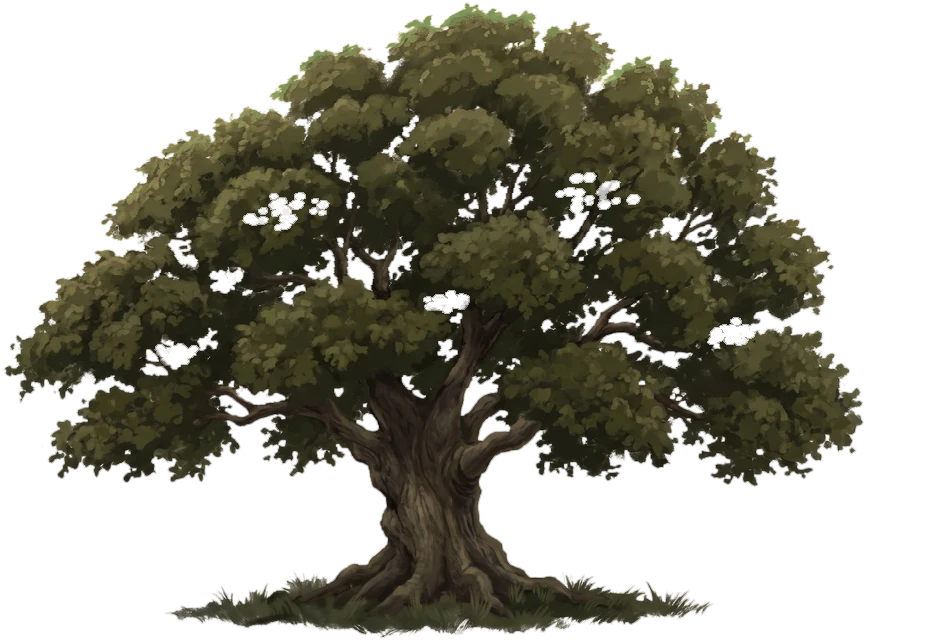
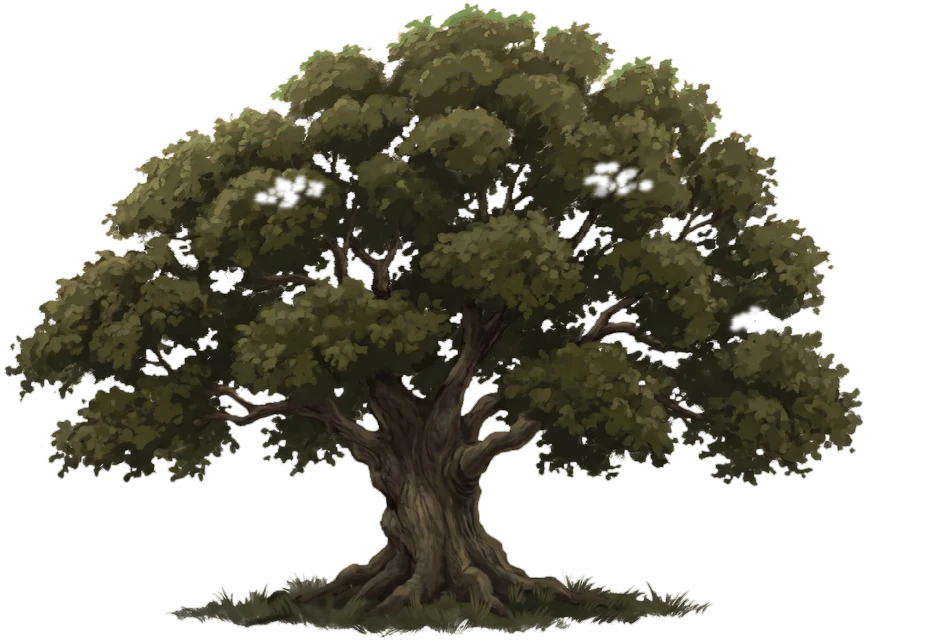
Build 269: the opening, a third pass after a second round of critique
Claude-Session: https://claude.ai/code/session_017HrTSHS2zYJPTp1hrn9Z3X

diff --git a/hill.js b/hill.js
@@ -288,12 +288,11 @@ const HL = (() => {
         k.beginPath(); if (o.hip) { k.moveTo(x - 2, top + 1); k.lineTo(x + w * .3, top - pitch); k.lineTo(x + w * .7, top - pitch); k.lineTo(x + w + 2, top + 1); } else { k.moveTo(x - 2, top + 1); k.lineTo(x + w / 2, top - pitch); k.lineTo(x + w + 2, top + 1); } k.fill();
         for (const cp of o.chim || []) { const px = x + w * cp, ry = top - pitch * (1 - Math.abs(cp - .5) * 2 * (o.hip ? .4 : 1)), hh = 8 + Rv() * 4; k.fillRect(px - 2.5, ry - hh, 5, hh + 3); k.fillRect(px - 3.5, ry - hh - 2, 7, 2.5); if (o.smoke) ch.push([px, ry - hh - 2]); }
         if (o.win) lit.push([x + w * o.win[0], top + h * o.win[1]]); };
-      const tree = (x, r, h) => { const g0 = gy(x) + 1; k.fillRect(x - 2, g0 - h, 4, h); for (let i = 0; i < 11; i++) { const a2 = i * 2.4, rr = r * (.5 + .22 * Rv()); k.beginPath(); k.arc(x + Math.cos(a2) * r * .6, g0 - h - r * .55 + Math.sin(a2) * r * .5, rr, 0, 7); k.fill(); } };
+      const tree = (x, r, h) => { const g0 = gy(x) + 1; k.fillRect(x - 2, g0 - h, 4, H); for (let i = 0; i < 11; i++) { const a2 = i * 2.4, rr = r * (.5 + .22 * Rv()); k.beginPath(); k.arc(x + Math.cos(a2) * r * .6, g0 - h - r * .55 + Math.sin(a2) * r * .5, rr, 0, 7); k.fill(); } };
       // first, nearest him: Legality's fine house, hipped, two tall chimneys, a garden wall and a great tree
       tree(18, 22, 26); house(48, 110, 44, 26, { hip: true, chim: [.2, .8], smoke: true, win: [.3, .45] }); house(158, 46, 30, 20, { chim: [.7] });
-      { const g0 = base(0, 214); k.fillRect(0, g0 - 9, 214, 20); }
       // the cottages, each its own width, height and pitch, a few with smoke; a long barn among them
-      let x = 222; const plan = [[40, 20, 15], [30, 16, 12, 'tree'], [78, 22, 16, 'barn'], [36, 19, 17], [44, 18, 11]];
+      let x = 222; const plan = [[52, 24, 19], [26, 13, 9, 'tree'], [84, 19, 13, 'barn'], [34, 27, 22], [60, 15, 9]];
       for (const [w, h, p, kind] of plan) { if (kind === 'tree') { tree(x + 12, 15, 17); x += 24; } house(x, w, h, p, { chim: kind === 'barn' ? [] : [.22 + Rv() * .56], smoke: x < 300 || kind === undefined && Rv() < .4, hip: kind === 'barn' }); x += w + 5 + Rv() * 7; }
       // the church: nave and a square tower with a short spire, set back a little
       const c0 = x + 8, cg = base(c0, 116); k.fillRect(c0, cg - 30, 84, H); k.beginPath(); k.moveTo(c0 - 2, cg - 29); k.lineTo(c0 + 42, cg - 47); k.lineTo(c0 + 86, cg - 29); k.fill();
@@ -301,7 +300,7 @@ const HL = (() => {
       k.beginPath(); k.moveTo(c0 + 86, cg - 66); k.lineTo(c0 + 97, cg - 122); k.lineTo(c0 + 108, cg - 66); k.fill(); k.fillRect(c0 + 96.2, cg - 131, 1.6, 10); k.fillRect(c0 + 93, cg - 127, 8, 1.4);
       lit.push([c0 + 30, cg - 15]);
       x = c0 + 124; tree(x + 12, 19, 20); x += 34;
-      for (const [w, h, p] of [[42, 18, 14], [58, 21, 18], [32, 15, 12]]) { house(x, w, h, p, { chim: [.3 + Rv() * .4], smoke: w === 58, win: w === 42 ? [.6, .5] : null }); x += w + 6 + Rv() * 6; }
+      for (const [w, h, p] of [[46, 22, 20], [70, 16, 11], [28, 12, 14]]) { house(x, w, h, p, { chim: [.3 + Rv() * .4], smoke: w === 70, win: w === 46 ? [.6, .5] : null }); x += w + 6 + Rv() * 6; }
       tree(x + 14, 17, 18);
       // only a few windows lit, not in a row
       lit.push([270, base(250, 40) - 9], [345, base(330, 40) - 10]);
@@ -1065,11 +1064,11 @@ const HL = (() => {
           lg.addColorStop(0, css(c0)); lg.addColorStop(1, css(c1)); c.fillStyle = lg; c.beginPath(); c.moveTo(pts[0][0], Y(0) + 2); for (const [x, y] of pts) c.lineTo(x, y); c.lineTo(pts[pts.length - 1][0], Y(0) + 2); c.fill();
           // the low sun on the crest: a thin warm line, brighter toward the sun and where the swell rises
           if (fairP > .02) { c.save(); c.globalCompositeOperation = 'lighter'; c.lineWidth = Math.max(.6, (1.3 - .5 * t) * z); c.lineJoin = 'round';
-            const sg = c.createLinearGradient(0, 0, VW, 0); for (let i = 0; i <= 8; i++) { const sx = VW * i / 8, d2 = Math.abs(sx - lx) / VW; sg.addColorStop(i / 8, css([255, 220, 160], (.34 - .3 * t) * fairP * Math.max(0, 1 - 1.4 * d2))); }
-            c.strokeStyle = sg; for (let i = 1; i < pts.length; i++) { const uu = cx * par + (pts[i][0] - VW / 2) / z, on = smooth(.46, .62, nz2(uu * .0024, sd + 4)); if (on < .05) continue; c.globalAlpha = on; c.beginPath(); c.moveTo(pts[i - 1][0], pts[i - 1][1] + .6); c.lineTo(pts[i][0], pts[i][1] + .6); c.stroke(); } c.restore(); } }
+            const sg = c.createLinearGradient(0, 0, VW, 0); for (let i = 0; i <= 64; i++) { const sx = VW * i / 64, d2 = Math.abs(sx - lx) / VW, on = smooth(.46, .62, nz2((cx * par + (sx - VW / 2) / z) * .0024, sd + 4)); sg.addColorStop(i / 64, css([255, 220, 160], (.34 - .3 * t) * fairP * Math.max(0, 1 - 1.4 * d2) * on)); }
+            c.strokeStyle = sg; c.beginPath(); pts.forEach(([x, y], i) => i ? c.lineTo(x, y + .6) : c.moveTo(x, y + .6)); c.stroke(); c.restore(); } }
         c.restore(); };
       plainFill(hor);
-      { const fk = (1 - dark) * (1 - gateish); if (fk > .02) { const hg = c.createLinearGradient(0, hor - 34 * z, 0, hor + 26 * z); hg.addColorStop(0, css(low, 0)); hg.addColorStop(.55, css(low, .62 * fk)); hg.addColorStop(1, css(low, 0)); c.fillStyle = hg; c.fillRect(0, hor - 34 * z, VW, 60 * z); } }
+      { const fk = (1 - dark) * (1 - gateish); if (fk > .02) { const hg = c.createLinearGradient(0, hor - 64 * z, 0, hor + 30 * z); hg.addColorStop(0, css(low, 0)); hg.addColorStop(.4, css(low, .2 * fk)); hg.addColorStop(.68, css(low, .52 * fk)); hg.addColorStop(1, css(low, 0)); c.fillStyle = hg; c.fillRect(0, hor - 64 * z, VW, 94 * z); } }
       // THE HILL IS NOT SEEN UNTIL WISEMAN POINTS (owner, build 185: "let's hide it entirely till worldly wise tells him to
       // look and then screen pans right and we see it"). On the plain it stands far off to the right (HILL_F), out of the
       // picture until the camera pans to it at "Do you see that hill?", and comes out of the haze as it does (`reveal`).
@@ -1249,15 +1248,15 @@ const HL = (() => {
       }
       // the village of Morality at the hill's near foot, under the overhang, in front of the haze at its foot. It shows
       // when Wiseman names it (`vil`), before the hill comes out of the haze above it at "Do you see that hill?"
-      if (!rocky && TOWN.W) { const tw = 700 * k, th = tw * TOWN.H / TOWN.W, tx = hx - 220 * k, ty = hy + 8 * k, va = Math.max(reveal, vil);
-        if (va > .01 && tx < VW && tx + tw > 0) { const tc = tintC.town || (tintC.town = mk(TOWN.W, TOWN.H)), t = tc.getContext('2d'), tint = mix(mix(mix(far, [58, 52, 58], .72), low, .06), [40, 36, 44], dark * .7);
+      if (!rocky && TOWN.W) { const tw = 700 * k, th = tw * TOWN.H / TOWN.W, tx = hx - 220 * k, ty = hy + 20 * k, va = Math.max(reveal, vil);
+        if (va > .01 && tx < VW && tx + tw > 0) { const tc = tintC.town || (tintC.town = mk(TOWN.W, TOWN.H)), t = tc.getContext('2d'), tint = mix(mix(mix(far, [44, 38, 44], .8), low, .05), [36, 32, 40], dark * .7);
           t.globalCompositeOperation = 'source-over'; t.clearRect(0, 0, TOWN.W, TOWN.H); t.drawImage(TOWN, 0, 0); t.globalCompositeOperation = 'source-in';
           const tg = t.createLinearGradient(0, 0, 0, TOWN.H); tg.addColorStop(0, css(tint)); tg.addColorStop(1, css(mix(tint, mix(far, near, .3), .35))); t.fillStyle = tg; t.fillRect(0, 0, TOWN.W, TOWN.H);
           // its foot fades into the haze of the plain (no hard straight base)
-          t.globalCompositeOperation = 'source-atop'; const fh = t.createLinearGradient(0, TOWN.H - 30, 0, TOWN.H); fh.addColorStop(0, css(colAt(clamp((ty - hor) / (Y(0) - hor))), 0)); fh.addColorStop(1, css(colAt(clamp((ty - hor) / (Y(0) - hor))), .9)); t.fillStyle = fh; t.fillRect(0, TOWN.H - 30, TOWN.W, 30);
+          t.globalCompositeOperation = 'source-atop'; const fh = t.createLinearGradient(0, TOWN.H - 44, 0, TOWN.H); fh.addColorStop(0, css(colAt(clamp((ty - hor) / (Y(0) - hor))), 0)); fh.addColorStop(1, css(colAt(clamp((ty - hor) / (Y(0) - hor))), .9)); t.fillStyle = fh; t.fillRect(0, TOWN.H - 44, TOWN.W, 44);
           c.globalAlpha = va; c.drawImage(tc, tx, ty - th, tw, th); c.globalAlpha = 1;
           // its chimneys smoke, thin threads leaning with the evening air
-          c.save(); c.lineCap = 'round'; for (const [i, [wx, wy]] of TOWN.ch.entries()) { const px = tx + wx * tw / TOWN.W, py = ty - th + wy * th / TOWN.H, L = 60 * k;
+          c.save(); c.lineCap = 'round'; for (const [i, [wx, wy]] of TOWN.ch.entries()) { const px = tx + wx * tw / TOWN.W, py = ty - th + wy * th / TOWN.H, L = 38 * k;
             for (let j = 0; j < 12; j++) { const u0 = j / 12, u1 = (j + 1) / 12, sw = u => px - u * u * 5 * k + 1.5 * k * u * Math.sin(G.t / 80 + u * 4 + i);
               c.strokeStyle = css(mix(tint, [214, 204, 196], .5), .32 * va * (1 - u0) * (1 - dark * .5)); c.lineWidth = Math.max(.5, (1.4 + 4 * u0) * k); c.beginPath(); c.moveTo(sw(u0), py - u0 * L); c.lineTo(sw(u1), py - u1 * L); c.stroke(); } }
           c.restore();

diff --git a/index.html b/index.html
@@ -156,7 +156,7 @@ body.portrait #rot{display:block}
     <button class="btn" id="again">Walk again</button>
   </div>
   <button id="snd" aria-label="Sound on or off">♪</button>
-  <div id="build">build 268 · Nov 17 2026</div>
+  <div id="build">build 269 · Nov 17 2026</div>
 </div></div>
 <div id="rot">Turn your phone sideways for a bigger picture</div>
 <script>
@@ -2548,7 +2548,7 @@ document.getElementById('on2').onclick = () => SL.on ? go3() : HL.on ? goRoom('d
 })();
 </script>
 <script src="slough.js?v=259"></script>
-<script src="hill.js?v=267"></script>
+<script src="hill.js?v=269"></script>
 <script src="rooms.js?v=268"></script>
 <script src="keepsakes.js?v=261"></script>
 <script src="editor.js?v=261"></script>

diff --git a/story-lab.html b/story-lab.html
@@ -3,4 +3,4 @@
 <title>Pilgrim's Progress</title>
 <!-- The game moved to the main page in build 119. This page only sends old links (and Home Screen icons) on to it. -->
 <script>location.replace('./' + location.search + location.hash);</script>
-<p><a href="./">Pilgrim's Progress</a> <span id="build">build 268 · Nov 17 2026</span></p>
+<p><a href="./">Pilgrim's Progress</a> <span id="build">build 269 · Nov 17 2026</span></p>

diff --git a/CLAUDE.md b/CLAUDE.md
@@ -35,7 +35,7 @@ A gentle side-scrolling story walk for kids ages 7 to 10, following Bunyan's *Th
 ## Working with the owner
 
 - **Repo `Twhidbey/pilgrims-progress`, branch `main`. Pushing `main` publishes the game** (GitHub Pages, https://twhidbey.github.io/pilgrims-progress/, 1 to 2 minutes). Commit and push after every change, then tell the owner it is live; a phone may show an old copy, so suggest `?v=N`. **Always give two links when a build is live (owner, build 187: "can you output [the editor link] by default and make note in notes"):** the game, `https://twhidbey.github.io/pilgrims-progress/?v=N`, and the editor link, `https://twhidbey.github.io/pilgrims-progress/?edit&v=N` (skip arrows, see Testing); add `&level=2` or `&level=3` when the change is in that level.
-- **Build stamp** (`id="build"`, bottom right): `build N · date` in `index.html` and `story-lab.html`. Bump N on **every** push that changes the game, so one number means one push. Keep the form `id="build">... build N` (the page's self-update reads it). **Currently build 268.** The two script tags at the end of `index.html` carry `?v=N` (`slough.js?v=`, `hill.js?v=`): set them to the build that last changed each file, so phones fetch the new copy. Several chats push at once: `git fetch` and rebase on `origin/main` just before pushing, and take the next number after whatever is there.
+- **Build stamp** (`id="build"`, bottom right): `build N · date` in `index.html` and `story-lab.html`. Bump N on **every** push that changes the game, so one number means one push. Keep the form `id="build">... build N` (the page's self-update reads it). **Currently build 269.** The two script tags at the end of `index.html` carry `?v=N` (`slough.js?v=`, `hill.js?v=`): set them to the build that last changed each file, so phones fetch the new copy. Several chats push at once: `git fetch` and rebase on `origin/main` just before pushing, and take the next number after whatever is there.
 - **SPEND AS LITTLE AS POSSIBLE (owner, build 106: "can you minimize spending - it's been pretty expensive for me last few days").** Video about 56 cents a try; a picture about 15 cents (`gemini-3-pro-image`); voice about a cent a line. **Before any paid call: say the cost and wait for a yes; keep the running total in `HANDOFF.md`.** Ways to save, in order: (1) do it in code first (breathing, sway, cloth and hair movement, small moves by warping a still, mirroring, tinting, reusing a figure); (2) build first and last frames from frames we already have; (3) draft pictures on `gemini-2.5-flash-image` (about a third of the price), the pro model only for the final; (4) show the owner a still before any video; (5) get two clips from one video (play backwards or back and forth); (6) write video prompts that pass the safety filter first time (no "sunk", "drowning", "thrashing", "desperate", "frightened"; say "thick sticky mud", "heaves", "cross and grumbling"); (7) a shorter video if the API offers one cheaper (not yet checked).
 - **Keep `CLAUDE.md` and `HANDOFF.md` updated after every change.** The repo is public: no names, emails or other personal details in notes, code or commits.
 - **Players:** kids 7 to 10, mostly on an iPhone. Gentle: no lives, no game over, read-aloud words, short simple sentences.
@@ -242,7 +242,7 @@ Owner: "is there a way to get pause and get menu that allows us to navigate away
 
 **Build 209: the far smoke takes the distance's haze (owner, with a phone picture of the far view: "Smoke is darker than mountain - can we make it same or lighter since the distance is lightening it. Also there can be more almost like layer of clouds about").** Far off (the plain, not among the rocks) the rising billows and the smoke layers are drawn in a pale smoke-grey (`PUFF[].h`, `SMOKEL[].h`), crossing to the dark smoke as the sky darkens (`hz`); and there are eight layers far off instead of five, the three lowest below the summit, passing behind the mountain and lying across the sky on its left. Nothing spent.
 
-**Build 267: THE OPENING MADE BEAUTIFUL, A WHOLE OAK, THE VILLAGE UNDER THE HILL (owner: "opening is a little plain - what could we do to make this beautiful while maintaining simplicity . Tree needs a redo - cut out part doesn't look good. Town needs to look more polished and maybe closer to mt via story"; then "Sound great - can you make multiple passes with subagents providing critique ... like a painting that you want to stare at for an hour").** Two rounds of three critic agents (composition, simplicity and story, close-up craft) between passes. (1) **The oak painted again, whole** (one `gemini-3-pro-image` picture, 4:3 at 2K, about 15 cents, right first time; given the old oak as its style): a broad balanced parkland oak, nothing cut away; cut from its white, the rust-orange top leaves turned olive, a few small ragged sky holes opened in the crown (leaf-sized dabs, the boughs kept), the crown leaned a little toward where Wiseman waits, the edge eroded a pixel (no pale fringe): `assets/oak-leaf.webp` (936 x 640), `OAK_META` {ax 432, ground 606, k .76}. Fewer, smaller, dimmer twinkles (at most 70); the bright edge softer (.42). (2) **The sun through the crown** is a warm core with a soft glow; the turning star-flare spokes are gone (they read as a camera lens). (3) **The plain in layers** (`plainFill(y0)`, `SW`, `colAt`): three long low swells of field bunched toward the horizon, each a shade darker than the one behind, haze lying in the hollow behind each, the low sun on their crests in broken stretches strongest toward the sun; sampled on the land so they slide without wobbling; laid again below the far mountain's foot. (4) **The road** has a long flat warm sheen of the low sun under it (a worn track of two lines was tried and read as lane markings: taken out). (5) **Birds:** three, now and then crossing the opening's sky slowly (only on the plain before the meeting). (6) **THE VILLAGE OF MORALITY AT THE HILL'S NEAR FOOT, under the overhang** ("Go by that hill. The first house you come to is his"): baked at twice its shown size (`TOWN`, 900 x 170) on a gentle rise: Legality's hipped house first with two smoking chimneys, a garden wall and a great tree, cottages of every size, a barn, the church with tower and spire, round trees; a few soft lit windows; thin smoke threads rising straight; its foot fading into the plain's haze; drawn in front of the hill's foot mist. (7) **The story:** when Wiseman names the village the camera pans to it far off (`vil`; the road sinks, `cam.wl`, so it fills less of the picture); the hill is still hidden; at "Do you see that hill?" the hill comes slowly up out of the haze behind the village (`reveal` eases in about 2.5 s instead of at once; the camera is still, so no flicker). (8) **The hill's foot:** one level band of mist (the four drifting cloud pictures there read as blotches: removed). `HL.peek()` gives `vil` and `reveal`. Spent: about 15 cents.
+**Build 267: THE OPENING MADE BEAUTIFUL, A WHOLE OAK, THE VILLAGE UNDER THE HILL (owner: "opening is a little plain - what could we do to make this beautiful while maintaining simplicity . Tree needs a redo - cut out part doesn't look good. Town needs to look more polished and maybe closer to mt via story"; then "Sound great - can you make multiple passes with subagents providing critique ... like a painting that you want to stare at for an hour").** Two rounds of three critic agents (composition, simplicity and story, close-up craft) between passes. (1) **The oak painted again, whole** (one `gemini-3-pro-image` picture, 4:3 at 2K, about 15 cents, right first time; given the old oak as its style): a broad balanced parkland oak, nothing cut away; cut from its white, the rust-orange top leaves turned olive, a few small ragged sky holes opened in the crown (leaf-sized dabs, the boughs kept), the crown leaned a little toward where Wiseman waits, the edge eroded a pixel (no pale fringe): `assets/oak-leaf.webp` (936 x 640), `OAK_META` {ax 432, ground 606, k .76}. Fewer, smaller, dimmer twinkles (at most 70); the bright edge softer (.42). (2) **The sun through the crown** is a warm core with a soft glow; the turning star-flare spokes are gone (they read as a camera lens). (3) **The plain in layers** (`plainFill(y0)`, `SW`, `colAt`): three long low swells of field bunched toward the horizon, each a shade darker than the one behind, haze lying in the hollow behind each, the low sun on their crests in broken stretches strongest toward the sun; sampled on the land so they slide without wobbling; laid again below the far mountain's foot. (4) **The road** has a long flat warm sheen of the low sun under it (a worn track of two lines was tried and read as lane markings: taken out). (5) **Birds:** three, now and then crossing the opening's sky slowly (only on the plain before the meeting). (6) **THE VILLAGE OF MORALITY AT THE HILL'S NEAR FOOT, under the overhang** ("Go by that hill. The first house you come to is his"): baked at twice its shown size (`TOWN`, 900 x 170) on a gentle rise: Legality's hipped house first with two smoking chimneys, a garden wall and a great tree, cottages of every size, a barn, the church with tower and spire, round trees; a few soft lit windows; thin smoke threads rising straight; its foot fading into the plain's haze; drawn in front of the hill's foot mist. (7) **The story:** when Wiseman names the village the camera pans to it far off (`vil`; the road sinks, `cam.wl`, so it fills less of the picture); the hill is still hidden; at "Do you see that hill?" the hill comes slowly up out of the haze behind the village (`reveal` eases in about 2.5 s instead of at once; the camera is still, so no flicker). (8) **The hill's foot:** one level band of mist (the four drifting cloud pictures there read as blotches: removed). `HL.peek()` gives `vil` and `reveal`. Spent: about 15 cents. **Build 269, a third pass after the second critique:** fewer, feathered sky holes in the oak (three near its edge); the horizon's glare a soft glow, not a stripe; the crests' light one stroke whose brightness follows the stretches (no dots at the joints); the village darker than the field behind it (it had lost its roofs against it), standing lower in the haze with a deeper foot fade, its trees rooted, no garden-wall plinth, the cottages more varied, the smoke threads shorter.
 
 **Build 262: back to build 256's billows, spread out (owner, shown 256, 258 and 260 side by side: "I like 1 best still (sadly) maybe we can just spread out billows a bit and make them ever so slightly more billowy").** The columns are build 256's soft billows again (`PUFF`, `cols()` restored from that build); the painted plume (260) and the billow masses (258) are taken out (`PLUME`, `assets/smoke-plume.webp`, `MASS`, `bakeMasses()` removed; all in git history). Now each billow strays 1.35 times as far to the sides and .65 (was .5) up and down, sways a little more, and its shape has ten lobes with fuller cores (.88 / .74 to 66% of the radius, then .3 at 88%). Nothing spent.
 
